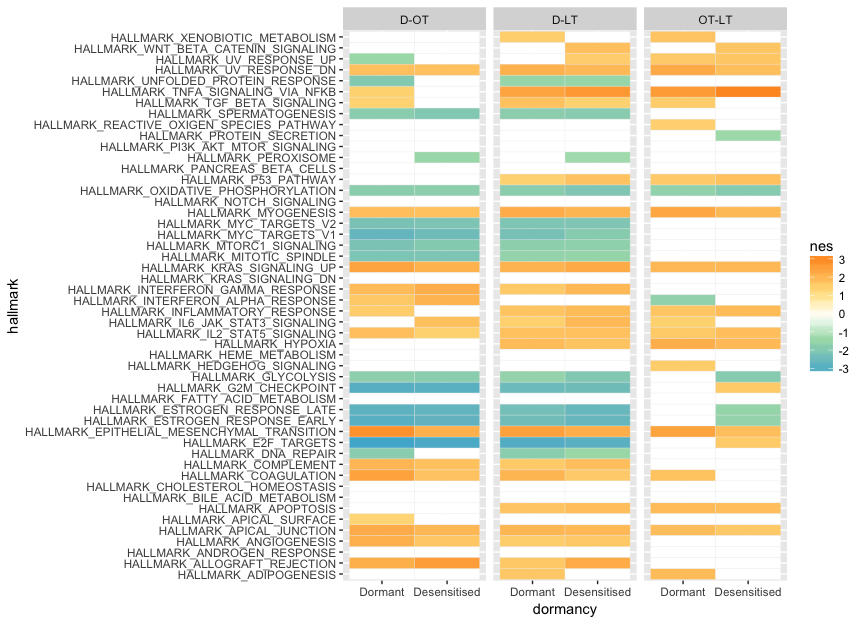
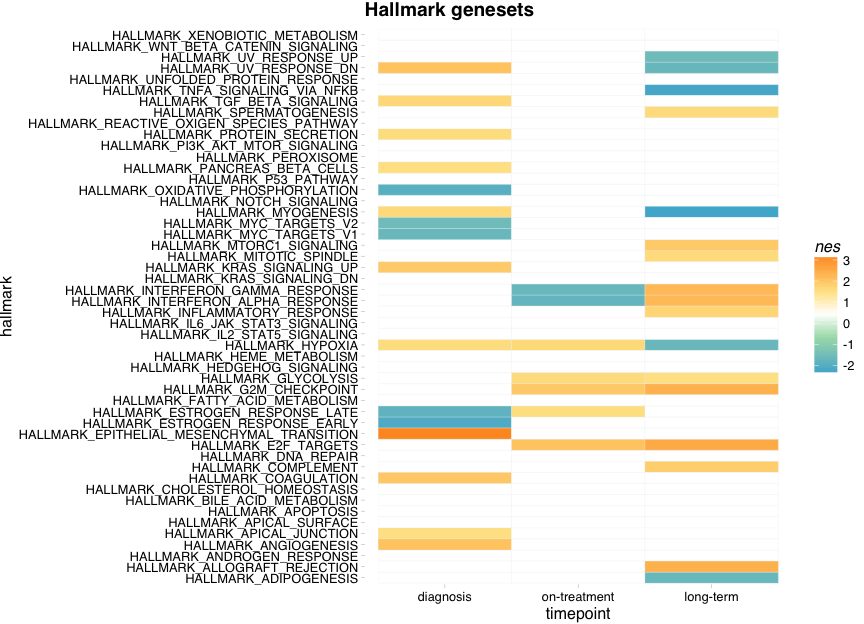
extended hallmarks to include oncosets in GSEA

diff --git a/combined/doc/hallmark-gsea.md b/combined/doc/hallmark-gsea.md
@@ -2,10 +2,18 @@ Hallmarks GSEA
 ================
 Dominic Pearce
 
+<!--
+//TODO  -When having two scores with the same name its average was used. 
+        -Zeros were removed. 
+        -Scores without names (which can not be in any signature) removed. 
+        -Non complete cases (i.e. NAs, NaNs) were removed
+-->
 ``` r
 library(tidyverse)
 library(GSEABase)
 library(phenoTest)
+library(testthat)
+library(ggthemes)
 ```
 
 ``` r
@@ -14,51 +22,7 @@ dormset <- read_rds("../output/dormset.rds")
 
 #### Here we're going to compare enrichment of the [Hallmark genesets](https://www.ncbi.nlm.nih.gov/pubmed/26771021) between dormant and desensitised patients.
 
-#### First we'll need to assemble the Hallmark genesets themselves, as a sensible easy to use list of ids that are present in `dormset`.
-
-``` r
-hallmarks <- getGmt("../data/h.all.v6.1.symbols.gmt")
-genesets <- geneIds(hallmarks)
-
-intersets <- lapply(genesets, function(set){
-                        intersect(set, row.names(dormset))
-})
-```
-
-#### We'll begin by arranging our data as two sets - dormants & desensitiseds (*//NOTE* This is an unpaired comparison). Then we calculate the significant **NES** scores, and plot.
-
-``` r
-dorm_xpr <- exprs(dormset[, which(dormset$is_dormant)]) %>% rowMeans()
-dssd_xpr <- exprs(dormset[, which(!dormset$is_dormant)]) %>% rowMeans()
-
-fc_vec <- sort(dssd_xpr - dorm_xpr)
-
-hallmarks_out <- gsea(x = fc_vec, gsets = intersets, logScale = FALSE)
-```
-
-    ## The provided gene sets have more than 10 distinct lengths, therefore gam approximation will be used.
-
-``` r
-arrangeGSEA <- function(gsea_out, comparison = NA, dormancy = NA){
-    dfr <- data.frame(summary(gsea_out)[, c("nes", "fdr")])
-    dfr[dfr$fdr >= 0.05, "nes"] <- NA
-    dfr$hallmark <- row.names(dfr)
-    dfr$comparison <- comparison
-    dfr$dormancy <- dormancy
-    dfr
-}
-hm_dfr <- arrangeGSEA(hallmarks_out, comparison = "Dormant-Desensitised")
-```
-
-``` r
-ggplot(hm_dfr, aes(x = comparison, y = hallmark, fill = nes)) + 
-    geom_tile(colour = "white") +
-    scale_fill_gradientn(values=c(1, .7, .5, .3, 0), colours=rev(c("#4eb3d3", "#a8ddb5", "white", "#fee391", "#fe9929")), na.value = "white")
-```
-
-<img src="hallmark-gsea_files/figure-markdown_github-ascii_identifiers/unnamed-chunk-6-1.png" style="display: block; margin: auto;" />
-
-#### Now we'll take advantage of our paired data and look at fold change overtime, separtely for dormant and desensitised patients
+### Functions
 
 #### First we'll write a fold-change function for expressionsets
 
@@ -73,104 +37,253 @@ getFC <- function(eset, id1, id2, id_col, patient_col){
 }
 ```
 
-#### Dormant GSEA
+#### GSEA calculation functions (for unpaired and paired comparisons)
 
 ``` r
-eset_base <- dormset[, which(dormset$is_dormant)]
-eset_dorm <- eset_base[,  -which(eset_base$timepoint_split != "A")]
+arrangeGSEA <- function(gsea_out, comparison = NA, dormancy = NA){
+    dfr <- data.frame(summary(gsea_out)[, c("nes", "fdr")])
+    dfr[dfr$fdr >= 0.05, "nes"] <- NA
+    dfr$hallmark <- row.names(dfr)
+    dfr$comparison <- comparison
+    dfr$dormancy <- dormancy
+    dfr$direction <- ifelse(grepl("UP$", dfr$hallmark), "UP", 
+           ifelse(grepl("DN$", dfr$hallmark), "DOWN", "EITHER"))
+    dfr
+}
 
-dorm_dlt <- getFC(eset_dorm, "diagnosis", "long-term", "timepoint", "patient") %>% 
-            rowMeans() %>% 
-            sort() %>% 
-            gsea(gsets = intersets, logScale = FALSE, center = TRUE) %>% 
-            arrangeGSEA(comparison = "D-LT", dormancy = "Dormant")
+arrangePairedGSEA <- function(geneset_list){
+    #for domants
+    eset_base <- dormset[, which(dormset$is_dormant)]
+    eset_dorm <- eset_base[,  -which(eset_base$timepoint_split != "A")]
+
+    dorm_dlt <- getFC(eset_dorm, "diagnosis", "long-term", "timepoint", "patient") %>% 
+                rowMeans() %>% 
+                sort() %>% 
+                gsea(gsets = geneset_list, logScale = FALSE, center = TRUE) %>% 
+                arrangeGSEA(comparison = "D-LT", dormancy = "Dormant")
+
+    dorm_dot <- getFC(eset_dorm, "diagnosis", "on-treatment", "timepoint", "patient") %>% 
+                rowMeans() %>% 
+                sort() %>% 
+                gsea(gsets = geneset_list, logScale = FALSE, center = TRUE) %>% 
+                arrangeGSEA(comparison = "D-OT", dormancy = "Dormant")
+
+    dorm_otlt <- getFC(eset_dorm, "on-treatment", "long-term", "timepoint", "patient") %>% 
+                rowMeans() %>% 
+                sort() %>% 
+                gsea(gsets = geneset_list, logScale = FALSE, center = TRUE) %>% 
+                arrangeGSEA(comparison = "OT-LT", dormancy = "Dormant")
+
+    #for desensitiseds
+    eset_base2 <- dormset[, which(!dormset$is_dormant)]
+    eset_dssn <- eset_base2[,  -which(eset_base2$timepoint_split != "A")]
+
+    dssn_dlt <- getFC(eset_dssn, "diagnosis", "long-term", "timepoint", "patient") %>% 
+                rowMeans() %>% 
+                sort() %>% 
+                gsea(gsets = geneset_list, logScale = FALSE, center = TRUE) %>% 
+                arrangeGSEA(comparison = "D-LT", dormancy = "Desensitised")
+
+    dssn_dot <- getFC(eset_dssn, "diagnosis", "on-treatment", "timepoint", "patient") %>% 
+                rowMeans() %>% 
+                sort() %>% 
+                gsea(gsets = geneset_list, logScale = FALSE, center = TRUE) %>% 
+                arrangeGSEA(comparison = "D-OT", dormancy = "Desensitised")
+
+    dssn_otlt <- getFC(eset_dssn, "on-treatment", "long-term", "timepoint", "patient") %>% 
+                rowMeans() %>% 
+                sort() %>% 
+                gsea(gsets = geneset_list, logScale = FALSE, center = TRUE) %>% 
+                arrangeGSEA(comparison = "OT-LT", dormancy = "Desensitised")
+
+    #arrange for ggplot
+    gsea_dfr <- do.call(rbind, list(dorm_dlt, dorm_dot, dorm_otlt, dssn_dlt, dssn_dot, dssn_otlt))
+    gsea_dfr$dormancy <- factor(gsea_dfr$dormancy, levels = c("Dormant", "Desensitised")) 
+    gsea_dfr$comparison <- factor(gsea_dfr$comparison, levels = c("D-OT", "D-LT", "OT-LT")) 
+    gsea_dfr
+}
+```
+
+#### Geneset arrangement
+
+``` r
+arrangeGenesets <- function(GMT){
+    genesets <- geneIds(GMT)
+    intersets <- lapply(genesets, function(set){
+                            intersect(set, row.names(dormset))
+    })
+    intersets
+}
+```
+
+### Analysis
+
+#### First we'll assemble the Hallmark and cancer-specific genesets, as a sensible easy to use list of ids that are present in `dormset`.
+
+``` r
+hallmarks <- getGmt("../data/h.all.v6.1.symbols.gmt") %>% arrangeGenesets()
+cancersets <- getGmt("../data/c6.all.v6.1.symbols.gmt") %>% arrangeGenesets()
+```
+
+#### We'll begin with an unpaired comparison, by arranging our data as two sets - dormants & desensitiseds - calculating the significant **NES** scores, and plotting.
+
+``` r
+arrangeUnpairedGSEA <- function(eset, geneset){
+    #separate into dormants and desensitiseds
+    dorm_xpr <- exprs(eset[, which(eset$is_dormant)]) %>% rowMeans()
+    dssd_xpr <- exprs(eset[, which(!eset$is_dormant)]) %>% rowMeans()
+    #calculate fold-change - this orientation is relative to desensitiseds
+    fc_vec <- sort(dssd_xpr - dorm_xpr)
+
+    test_that("test that our vector meets the phenoTest reccomended specs", {
+        expect_false(unique(fc_vec %>% is.na()))
+        expect_false(unique(fc_vec == 0))
+        #even at 15 decimals points, for all genes there are value ties but they're such a small
+        #percentage of all genes that I don't think it is critical to the results here
+    })
+    #perform GSEA and arrange for plotting
+    geneset_out <- gsea(x = fc_vec, gsets = geneset, logScale = FALSE)
+    arrangeGSEA(geneset_out, comparison = "Dormant-Desensitised")
+} 
+
+
+plotUnpaired <- function(x){
+    ggplot(x, aes(x = comparison, y = hallmark, fill = nes)) + 
+            geom_tile(colour = "white") +
+            scale_fill_gradientn(values=c(1, .7, .5, .3, 0), colours=rev(c("#4eb3d3", "#a8ddb5", "white", "#fee391", "#fe9929")), na.value = "white") +
+            labs(title = "GSEA : Dormant vs. Desensitised", subtitle = "Enrichment is relative to acquired resistant patients") 
+}
+```
+
+``` r
+arrangeUnpairedGSEA(dormset, hallmarks) %>%
+    plotUnpaired()
 ```
 
     ## The provided gene sets have more than 10 distinct lengths, therefore gam approximation will be used.
 
+<img src="hallmark-gsea_files/figure-markdown_github-ascii_identifiers/unnamed-chunk-9-1.png" style="display: block; margin: auto;" />
+
 ``` r
-dorm_dot <- getFC(eset_dorm, "diagnosis", "on-treatment", "timepoint", "patient") %>% 
-            rowMeans() %>% 
-            sort() %>% 
-            gsea(gsets = intersets, logScale = FALSE, center = TRUE) %>% 
-            arrangeGSEA(comparison = "D-OT", dormancy = "Dormant")
+set.seed(125)
+arrangeUnpairedGSEA(dormset, cancersets) %>%
+        .[!is.na(.$nes),] %>%
+        plotUnpaired() +
+        scale_fill_gradient2(high = "#fe9929", mid = "white", low = "#4eb3d3", na.value = "white") + 
+        facet_grid(direction~., scales = 'free', space = 'free')
 ```
 
     ## The provided gene sets have more than 10 distinct lengths, therefore gam approximation will be used.
 
+<img src="hallmark-gsea_files/figure-markdown_github-ascii_identifiers/unnamed-chunk-9-2.png" style="display: block; margin: auto;" />
+
+#### We can then split our dormant vs. desensitised comparison by timepoint
+
 ``` r
-dorm_otlt <- getFC(eset_dorm, "on-treatment", "long-term", "timepoint", "patient") %>% 
-            rowMeans() %>% 
-            sort() %>% 
-            gsea(gsets = intersets, logScale = FALSE, center = TRUE) %>% 
-            arrangeGSEA(comparison = "OT-LT", dormancy = "Dormant")
+lapply(c("diagnosis", "on-treatment", "long-term"), function(x) {
+    dfr <- arrangeUnpairedGSEA(dormset[, which(dormset$timepoint == x)], hallmarks) 
+    dfr$timepoint <- factor(x, levels = c("diagnosis", "on-treatment", "long-term"))
+    dfr
+    }) %>% 
+    do.call(rbind, .) %>%
+    ggplot(aes(x = timepoint, y = hallmark, fill = nes)) +
+        geom_tile(colour = "#f0f0f0") + 
+        scale_fill_gradientn(values=c(1, .7, .5, .3, 0), colours=rev(c("#4eb3d3", "#a8ddb5", "white", "#fee391", "#fe9929")), na.value = "white") +
+        #facet_wrap(~timepoint, nrow = 1) +
+        labs(title = "Hallmark genesets") + 
+        theme_pander()
 ```
 
     ## The provided gene sets have more than 10 distinct lengths, therefore gam approximation will be used.
+    ## The provided gene sets have more than 10 distinct lengths, therefore gam approximation will be used.
+    ## The provided gene sets have more than 10 distinct lengths, therefore gam approximation will be used.
 
-#### Desensitised GSEA
+<img src="hallmark-gsea_files/figure-markdown_github-ascii_identifiers/unnamed-chunk-10-1.png" style="display: block; margin: auto;" />
 
 ``` r
-eset_base <- dormset[, which(!dormset$is_dormant)]
-eset_dssn <- eset_base[,  -which(eset_base$timepoint_split != "A")]
-
-dssn_dlt <- getFC(eset_dssn, "diagnosis", "long-term", "timepoint", "patient") %>% 
-            rowMeans() %>% 
-            sort() %>% 
-            gsea(gsets = intersets, logScale = FALSE, center = TRUE) %>% 
-            arrangeGSEA(comparison = "D-LT", dormancy = "Desensitised")
+lapply(c("diagnosis", "on-treatment", "long-term"), function(x) {
+    dfr <- arrangeUnpairedGSEA(dormset[, which(dormset$timepoint == x)], cancersets) 
+    dfr$timepoint <- factor(x, levels = c("diagnosis", "on-treatment", "long-term"))
+    dfr
+    }) %>% 
+    do.call(rbind, .) %>%
+    ggplot(aes(x = timepoint, y = hallmark, fill = nes)) +
+        geom_tile(colour = "#f0f0f0") + 
+        scale_fill_gradientn(values=c(1, .7, .5, .3, 0), colours=rev(c("#4eb3d3", "#a8ddb5", "white", "#fee391", "#fe9929")), na.value = "white") +
+        #facet_wrap(~timepoint, nrow = 1) +
+        labs(title = "Hallmark genesets") + 
+#        theme_pander() +
+        facet_grid(direction~., scales = 'free', space = 'free')
 ```
 
     ## The provided gene sets have more than 10 distinct lengths, therefore gam approximation will be used.
-
-``` r
-dssn_dot <- getFC(eset_dssn, "diagnosis", "on-treatment", "timepoint", "patient") %>% 
-            rowMeans() %>% 
-            sort() %>% 
-            gsea(gsets = intersets, logScale = FALSE, center = TRUE) %>% 
-            arrangeGSEA(comparison = "D-OT", dormancy = "Desensitised")
-```
-
+    ## The provided gene sets have more than 10 distinct lengths, therefore gam approximation will be used.
     ## The provided gene sets have more than 10 distinct lengths, therefore gam approximation will be used.
 
-``` r
-dssn_otlt <- getFC(eset_dssn, "on-treatment", "long-term", "timepoint", "patient") %>% 
-            rowMeans() %>% 
-            sort() %>% 
-            gsea(gsets = intersets, logScale = FALSE, center = TRUE) %>% 
-            arrangeGSEA(comparison = "OT-LT", dormancy = "Desensitised")
-```
+<img src="hallmark-gsea_files/figure-markdown_github-ascii_identifiers/unnamed-chunk-11-1.png" style="display: block; margin: auto;" />
 
-    ## The provided gene sets have more than 10 distinct lengths, therefore gam approximation will be used.
+#### Now we'll take advantage of our paired data and look at fold change overtime, separtely for dormant and desensitised patients
 
 #### Combine and plot
 
-``` r
-gsea_dfr <- do.call(rbind, list(dorm_dlt, dorm_dot, dorm_otlt, dssn_dlt, dssn_dot, dssn_otlt))
-gsea_dfr$dormancy <- factor(gsea_dfr$dormancy, levels = c("Dormant", "Desensitised")) 
-gsea_dfr$comparison <- factor(gsea_dfr$comparison, levels = c("D-OT", "D-LT", "OT-LT")) 
+**you were finishing getting back to the same place with hm 50 (need to run the function defined above and then plot) and then going to apply the C6 gensets**
 
-ggplot(gsea_dfr, aes(x = dormancy, y = hallmark, fill = nes)) +
+**also add clustering to the function above?**
+
+``` r
+hm_paired <- arrangePairedGSEA(hallmarks)
+```
+
+    ## The provided gene sets have more than 10 distinct lengths, therefore gam approximation will be used.
+    ## The provided gene sets have more than 10 distinct lengths, therefore gam approximation will be used.
+    ## The provided gene sets have more than 10 distinct lengths, therefore gam approximation will be used.
+    ## The provided gene sets have more than 10 distinct lengths, therefore gam approximation will be used.
+    ## The provided gene sets have more than 10 distinct lengths, therefore gam approximation will be used.
+    ## The provided gene sets have more than 10 distinct lengths, therefore gam approximation will be used.
+
+``` r
+ggplot(hm_paired, aes(x = dormancy, y = hallmark, fill = nes)) +
     geom_tile(colour = "#f0f0f0") +
     facet_wrap(~comparison, nrow = 1) +
     scale_fill_gradientn(values=c(1, .7, .5, .3, 0), colours=rev(c("#4eb3d3", "#a8ddb5", "white", "#fee391", "#fe9929")), na.value = "white")
 ```
 
-<img src="hallmark-gsea_files/figure-markdown_github-ascii_identifiers/unnamed-chunk-10-1.png" style="display: block; margin: auto;" />
+<img src="hallmark-gsea_files/figure-markdown_github-ascii_identifiers/unnamed-chunk-12-1.png" style="display: block; margin: auto;" />
 
 ``` r
-ggplot(gsea_dfr, aes(x = comparison, y = hallmark, fill = nes)) +
+ggplot(hm_paired, aes(x = comparison, y = hallmark, fill = nes)) +
     geom_tile(colour = "#f0f0f0") +
     facet_wrap(~dormancy, nrow = 1) +
     scale_fill_gradientn(values=c(1, .7, .5, .3, 0), colours=rev(c("#4eb3d3", "#a8ddb5", "white", "#fee391", "#fe9929")), na.value = "white")
 ```
 
-<img src="hallmark-gsea_files/figure-markdown_github-ascii_identifiers/unnamed-chunk-10-2.png" style="display: block; margin: auto;" />
+<img src="hallmark-gsea_files/figure-markdown_github-ascii_identifiers/unnamed-chunk-12-2.png" style="display: block; margin: auto;" />
 
 #### Enrichment differences between Dormant and Desensitised in &gt;= 2 comparisons
 
--   xenobiotic metabolism...
+-   xenobiotic metabolism.
 -   uv response up
 -   wnt signalling
 -   ros
 -   interferon alpha
+
+``` r
+cs_paired <- arrangePairedGSEA(cancersets)
+```
+
+    ## The provided gene sets have more than 10 distinct lengths, therefore gam approximation will be used.
+    ## The provided gene sets have more than 10 distinct lengths, therefore gam approximation will be used.
+    ## The provided gene sets have more than 10 distinct lengths, therefore gam approximation will be used.
+    ## The provided gene sets have more than 10 distinct lengths, therefore gam approximation will be used.
+    ## The provided gene sets have more than 10 distinct lengths, therefore gam approximation will be used.
+    ## The provided gene sets have more than 10 distinct lengths, therefore gam approximation will be used.
+
+``` r
+ggplot(cs_paired, aes(x = comparison, y = hallmark, fill = nes)) +
+    geom_tile(colour = "#f0f0f0") +
+    facet_wrap(~dormancy, nrow = 1) +
+    scale_fill_gradientn(values=c(1, .7, .5, .3, 0), colours=rev(c("#4eb3d3", "#a8ddb5", "white", "#fee391", "#fe9929")), na.value = "white") +
+    facet_grid(direction~., scales = 'free', space = 'free')
+```
+
+<img src="hallmark-gsea_files/figure-markdown_github-ascii_identifiers/unnamed-chunk-13-1.png" style="display: block; margin: auto;" />
